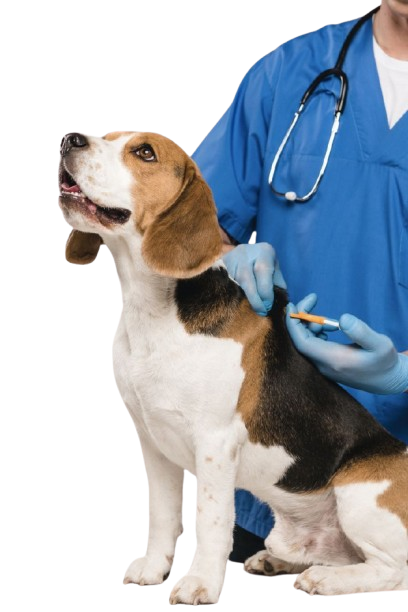
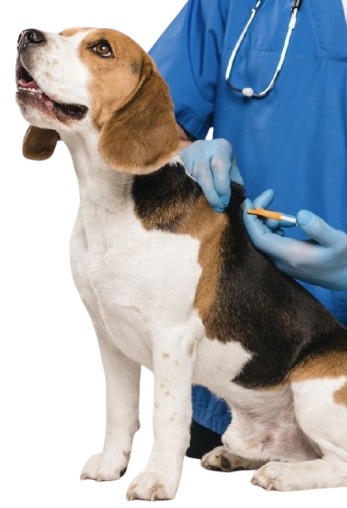
Visualizacion de la Modal

diff --git a/src/components/servicios/pages/FormularioPage.jsx b/src/components/servicios/pages/FormularioPage.jsx
@@ -31,7 +31,8 @@ const theme = createTheme({
     fontFamily: 'Poppins, sans-serif',
     h5: {
       color: '#00897b', // Cambiar el color del título "Agendar Cita"
-      fontSize: '1.8rem', // Ajustar tamaño de letra del título
+      fontSize: '1.6rem', // Ajustar tamaño de letra del título
+      fontWeight: 'bold',// En negrita el h5
     },
     button: {
       fontSize: '1rem', // Aumentar tamaño de letra para botones
@@ -131,21 +132,34 @@ export default function Component() {
     return existingAppointments.some(appointment => appointment.fecha === formattedDate);
   };
 
-  return (
+  return ( 
+     
     <ThemeProvider theme={theme}>
       <LocalizationProvider dateAdapter={AdapterDayjs}>
-        <Container component="main" maxWidth="sm">
-          <Box sx={{ marginTop: 10, display: "flex", flexDirection: "column", alignItems: "center", padding: '20px' }}>
+        {/* editar  el tamaño máximo del contenedor del formulario */}
+        <Container component="main" maxWidth="sm" sx={{ width: '90%', maxWidth: '400px' }}>
+          <Box 
+            sx={{ 
+              marginTop: 10, 
+              display: "flex", 
+              flexDirection: "column", 
+              alignItems: "center", 
+              padding: '20px',
+              width: '100%',
+              maxWidth: '600px' // Limitar el ancho máximo del formulario
+            }}
+            >
+               {/* editar el tamaña del h5 */}
             <Typography component="h1" variant="h5">
               Agendar una Cita
             </Typography>
-
+              {/* Muestra la notificacion */}
             <Collapse in={showNotification}>
               <Alert severity="success" sx={{ mt: 2, width: '100%', fontSize: '1.5rem' }}>
                 ¡Cita agendada con éxito!
               </Alert>
             </Collapse>
-
+                   {/*  formulario */}
             <Box component="form" onSubmit={handleSubmit(onSubmit)} noValidate sx={{ mt: 3 }}>
               <Grid container spacing={2}>
                 <Grid item xs={12}>
@@ -298,9 +312,9 @@ export default function Component() {
                             backgroundColor: '#00897b', // Color de fondo al hacer hover en la fecha
                           },
                           '& .MuiTypography-root': {
-                            fontSize: '1.5rem', // Cambiar tamaño de letra del calendario
+                            fontSize: '1.3rem', // Cambiar tamaño de letra del calendario
                           },
-                          width: '100%', // Hacer el calendario más ancho
+                          width: '80%', // Hacer el calendario más ancho
                           maxWidth: '400px', // Limitar el ancho máximo del calendario
                           margin: '0 auto', // Centrar el calendario
                         }}
@@ -308,6 +322,7 @@ export default function Component() {
                     )}
                   />
                 </Grid>
+                 {/* iditar botones del  formulario */}
                 <Grid item xs={12}>
                   <Button
                     type="submit"
@@ -333,6 +348,7 @@ export default function Component() {
               </Grid>
             </Box>
           </Box>
+           {/* Editar el modalel  */}
           <Dialog open={openModal} onClose={handleCloseModal}>
             <DialogTitle sx={{ fontSize: '1.5rem', color: '#00897b' }}>¡Hola!</DialogTitle>
             <DialogContent>

diff --git a/src/components/servicios/pages/DetallesPage.jsx b/src/components/servicios/pages/DetallesPage.jsx
@@ -29,21 +29,25 @@ export const DetallesPage = () => {
         },
         cardTitle: {
             fontFamily: 'Poppins, sans-serif', // Familia de la fuente
-            fontWeight: '90%', // Grosor de la fuente
-            fontSize: '60px', // Tamaño del h2
+            fontWeight: '60%', // Grosor de la fuente
+            fontSize: '36px', // Tamaño más pequeño
             color: '#2c6b6b', // Color personalizado
+            marginTop: '30px',
             marginBottom: '0px', // Separación con las cards
+            fontWeight: 'bold',
         },
         cardDescription: {
             padding: '20px 0',
             fontFamily: 'Poppins, sans-serif', // Familia de la fuente
             backgroundColor: '#c9d4d4',
-            fontSize: '20px',
-            fontFamily: 'Poppins, sans-serif',
+            fontSize: '16px',
             fontWeight: 'bold',
             color: '#343434',
             marginBottom: '50px',
             lineHeight: '1.5',
+             maxWidth: '80%', // Limita el ancho máximo de la descripción
+        textAlign: 'center', // Centra el texto
+        margin: '0 auto', // Asegura que el texto esté centrado horizontalmente
         },
         // Nuevo estilo para contenedor de botones
         buttonContainer: {
@@ -69,8 +73,11 @@ export const DetallesPage = () => {
             transition: 'background-color 0.6s ease',
         },
         vetImg: {
-            width: '90%',
+            width: '60%',
             maxWidth: '500px',
+            borderRadius: '10px',
+            marginTop: '20px',
+            height: 'auto',
             borderRadius: '10px',
             marginTop: '20px',
         },

diff --git a/src/components/servicios/data/ServiData.js b/src/components/servicios/data/ServiData.js
@@ -14,7 +14,7 @@ export const serviData = [
       descripcion: "Aplicación de  las vacunas y tratamiento antiparasitario para mantener la salud de tu mascota, El protocolo de las vacunas es esencial en la vida de nuestras mascotas, para su bienestar, es necesario cumplir al 100% del plan de vacunas establecido por el médico veterinario. Las vacunas es la manera más eficaces de prevenir las enfermedades infecciosas y mortales. Para nuestro servicio de vacunación no paga consulta, puede venir de lunes a domingo.",
       imagen:'/public/Michi.pgn',
       url: "/servicio/2",
-      imagen: `${process.env.PUBLIC_URL}/asset/imgServicios/hero-r.png`, 
+      imagen: `${process.env.PUBLIC_URL}/asset/imgServicios/Michi.png`, 
 
     },
     {
